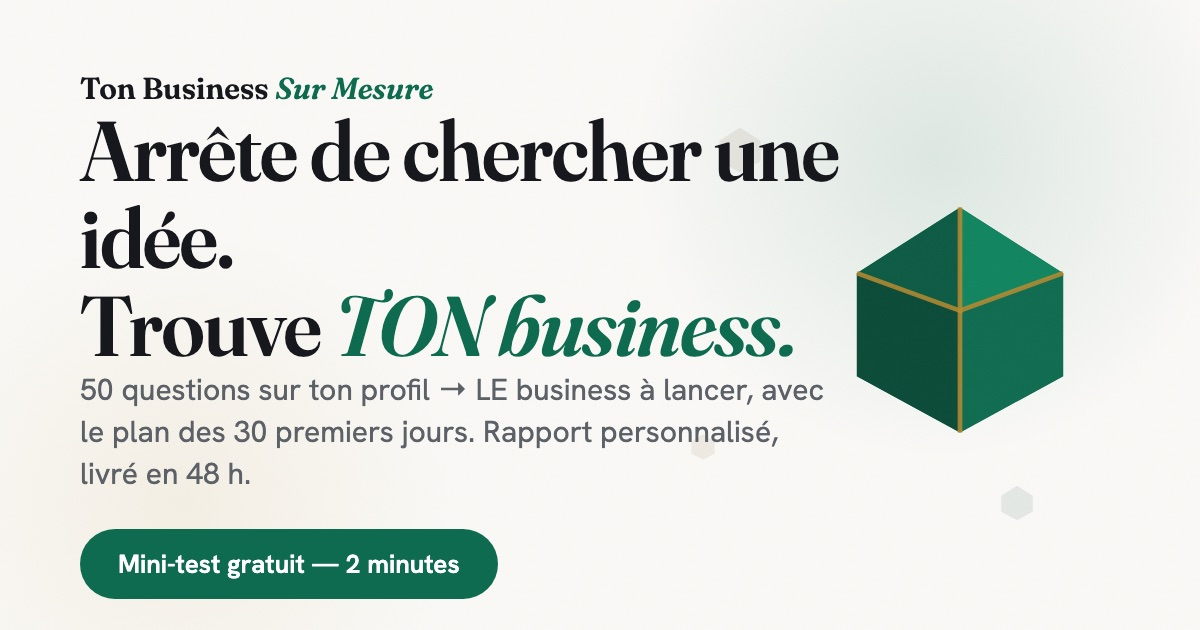
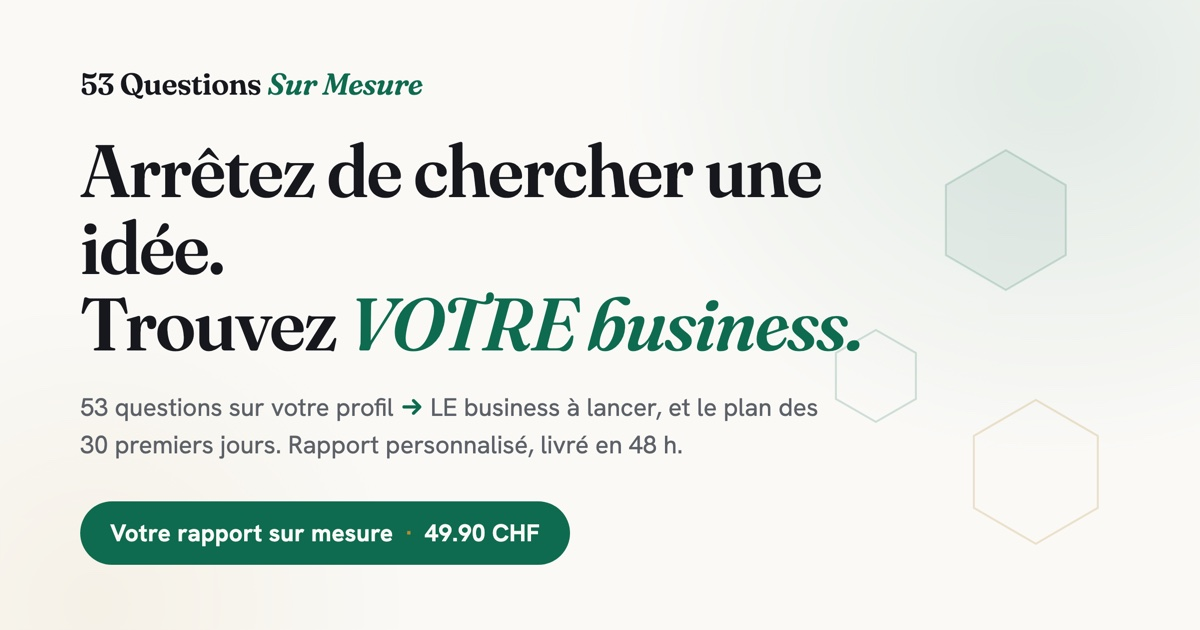
OG image : refonte aux normes actuelles (53, vouvoiement, vente directe)
L'ancienne og.jpg datait d'avant le rebranding : « Ton Business », tutoiement,
« 50 questions », accroche « mini-test gratuit » (supprimé). Nouvelle image
générée depuis tools/og-source.html (Chrome headless 2x → JPG 1200×630),
titre OG existant conservé tel quel.

Changed region(s): [[0.0617, 0.0905, 0.8942, 0.9651]]

diff --git a/tools/og-source.html b/tools/og-source.html
@@ -1,0 +1,60 @@
+<!DOCTYPE html>
+<html lang="fr"><head><meta charset="utf-8">
+<link href="https://fonts.googleapis.com/css2?family=Fraunces:ital,opsz,wght@0,9..144,400..700;1,9..144,400..700&family=Hanken+Grotesk:wght@400;600;700&display=swap" rel="stylesheet">
+<style>
+  :root{
+    --paper:#faf9f6; --ink:#16181d; --muted:#5c6168;
+    --accent:#0e6b4f; --accent-soft:#e7f2ee; --gold:#b88a2e; --line:#e5e2db;
+  }
+  *{margin:0;padding:0;box-sizing:border-box}
+  html,body{width:1200px;height:630px;overflow:hidden}
+  body{
+    background:
+      radial-gradient(46rem 40rem at 88% 12%, rgba(14,107,79,.10), transparent 60%),
+      radial-gradient(30rem 30rem at 8% 96%, rgba(184,138,46,.08), transparent 65%),
+      var(--paper);
+    font-family:'Hanken Grotesk',system-ui,sans-serif;
+    color:var(--ink);
+    position:relative;
+  }
+  /* Hexagones décoratifs très discrets (identité, pas un logo) */
+  .hex{position:absolute;border:2px solid;transform:rotate(0deg);opacity:.16}
+  .hex svg{display:block}
+  .deco{position:absolute;right:64px;top:0;bottom:0;width:430px;pointer-events:none}
+  .deco .h{position:absolute}
+  .wrap{position:absolute;inset:0;padding:74px 80px;display:flex;flex-direction:column;justify-content:center}
+  .brand{font-family:'Fraunces',serif;font-size:30px;font-weight:600;letter-spacing:-.01em;margin-bottom:30px}
+  .brand .sm{font-style:italic;color:var(--accent)}
+  h1{font-family:'Fraunces',serif;font-weight:600;font-size:74px;line-height:1.04;letter-spacing:-.02em;max-width:830px}
+  h1 .accent{font-style:italic;color:var(--accent)}
+  .sub{margin-top:26px;max-width:770px;font-size:25px;line-height:1.5;color:var(--muted)}
+  .sub .arrow{color:var(--accent);font-weight:700}
+  .chip{margin-top:38px;display:inline-flex;align-items:center;gap:12px;align-self:flex-start;
+    background:var(--accent);color:var(--paper);font-weight:700;font-size:24px;
+    padding:16px 30px;border-radius:999px;letter-spacing:.01em}
+  .chip .dot{color:var(--gold)}
+</style></head>
+<body>
+  <!-- volutes hexagonales discrètes à droite -->
+  <div class="deco" aria-hidden="true">
+    <svg width="430" height="630" viewBox="0 0 430 630" fill="none">
+      <g stroke="#0e6b4f" stroke-width="2" opacity="0.18">
+        <polygon points="300,150 360,185 360,255 300,290 240,255 240,185"/>
+        <polygon points="170,330 210,353 210,399 170,422 130,399 130,353"/>
+      </g>
+      <g stroke="#b88a2e" stroke-width="2" opacity="0.22">
+        <polygon points="330,400 392,436 392,508 330,544 268,508 268,436"/>
+      </g>
+      <g fill="#0e6b4f" opacity="0.06">
+        <polygon points="300,150 360,185 360,255 300,290 240,255 240,185"/>
+      </g>
+    </svg>
+  </div>
+
+  <div class="wrap">
+    <div class="brand">53 Questions <span class="sm">Sur Mesure</span></div>
+    <h1>Arrêtez de chercher une idée.<br>Trouvez <span class="accent">VOTRE business.</span></h1>
+    <p class="sub">53 questions sur votre profil <span class="arrow">→</span> LE business à lancer, et le plan des 30 premiers jours. Rapport personnalisé, livré en 48 h.</p>
+    <div class="chip">Votre rapport sur mesure <span class="dot">·</span> 49.90 CHF</div>
+  </div>
+</body></html>